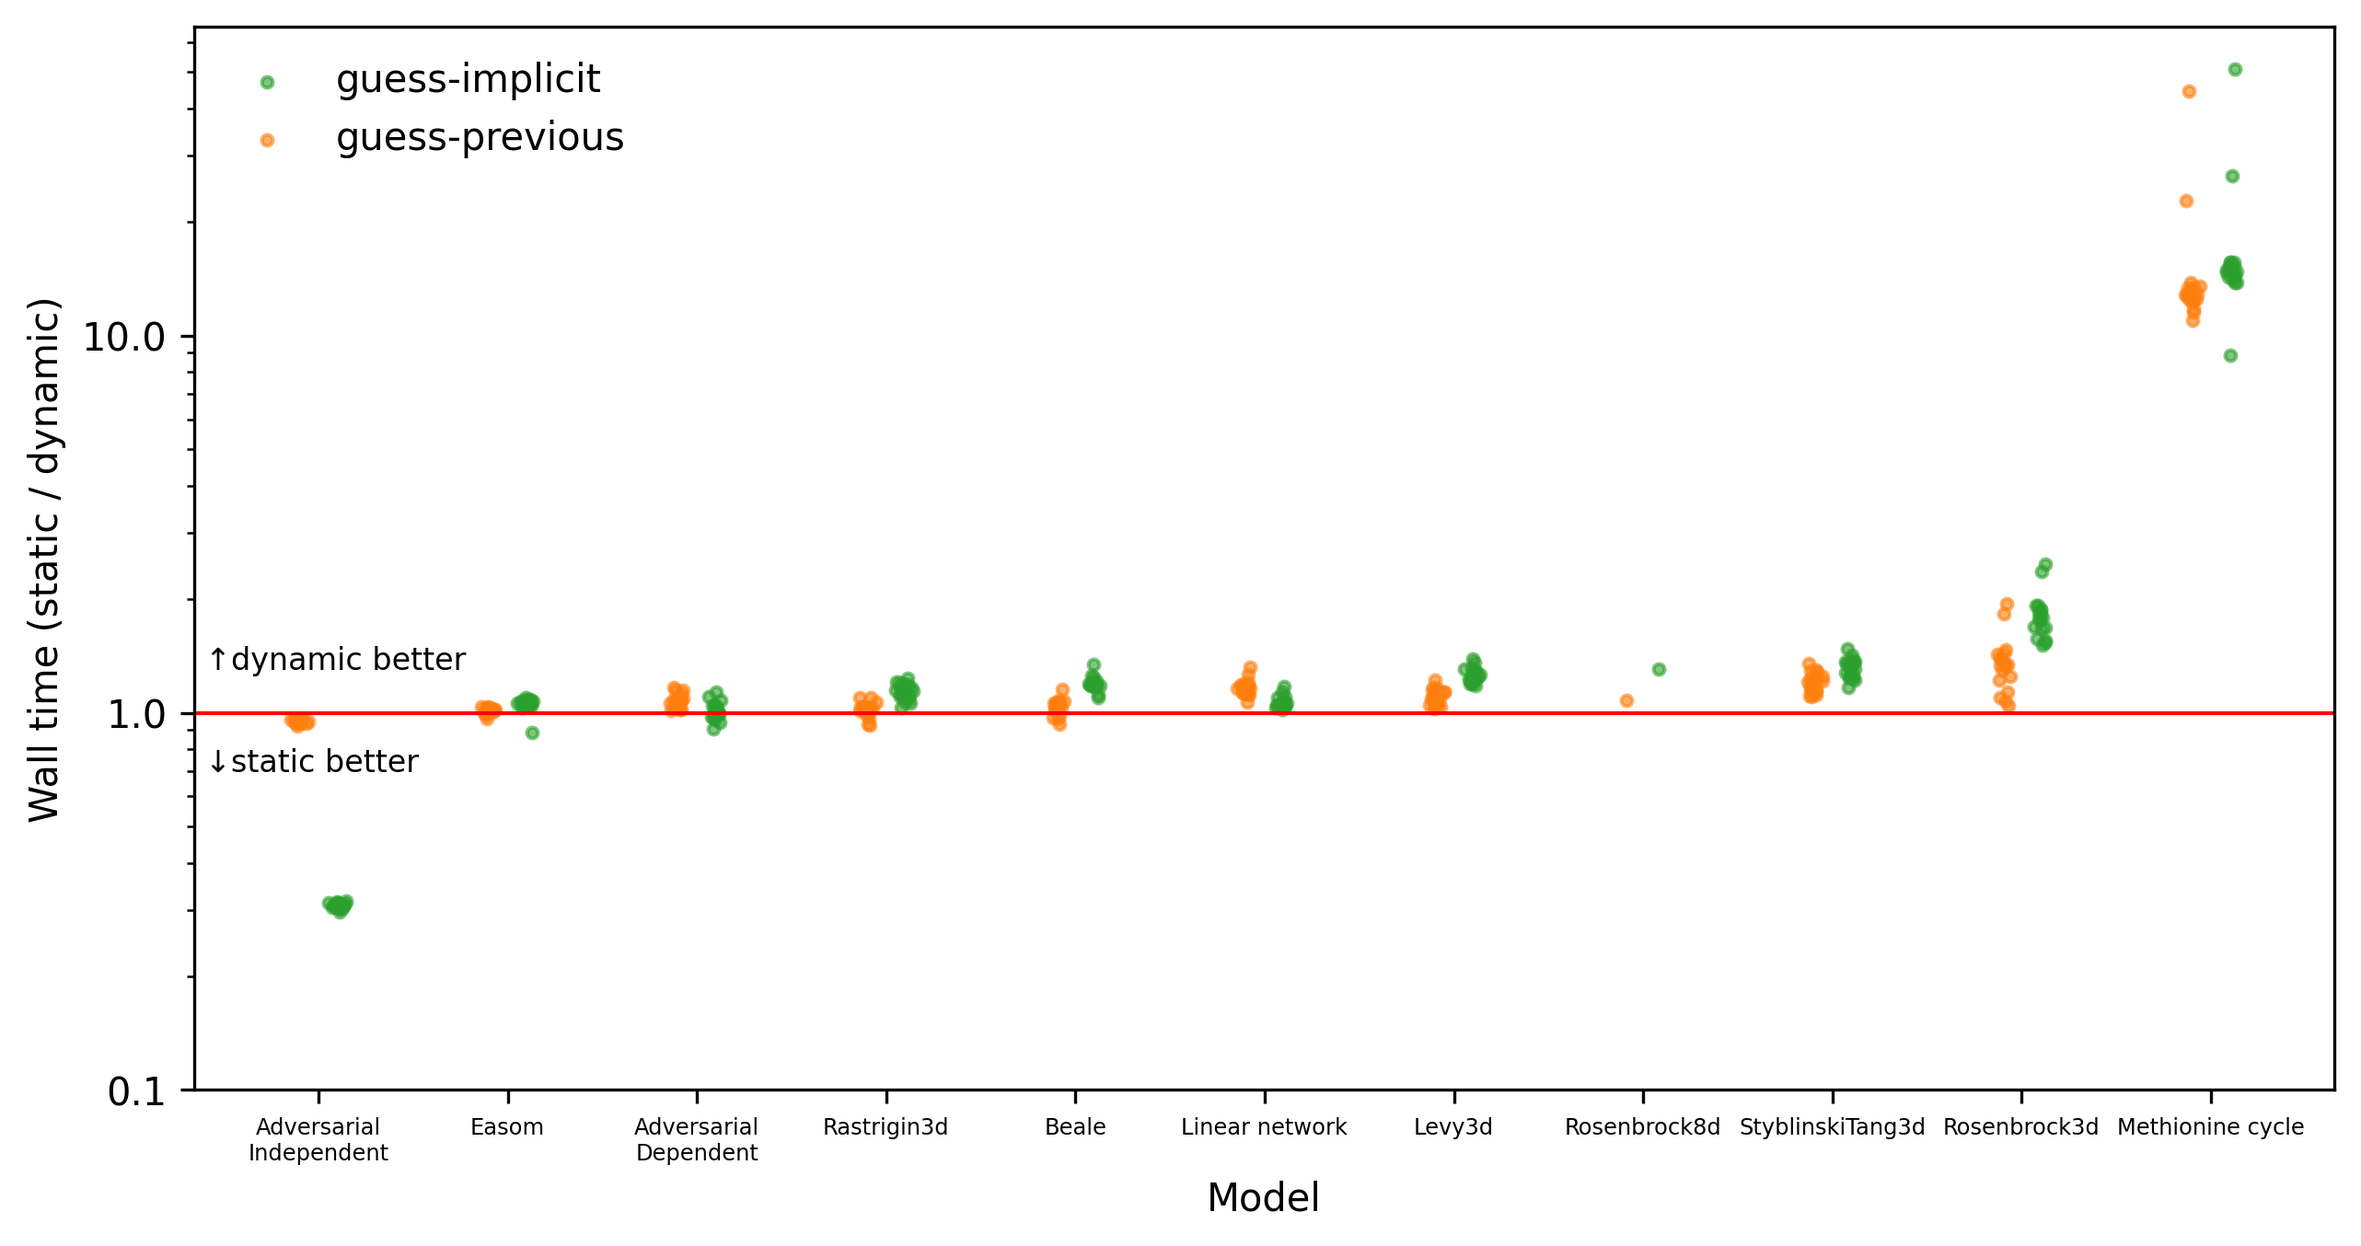
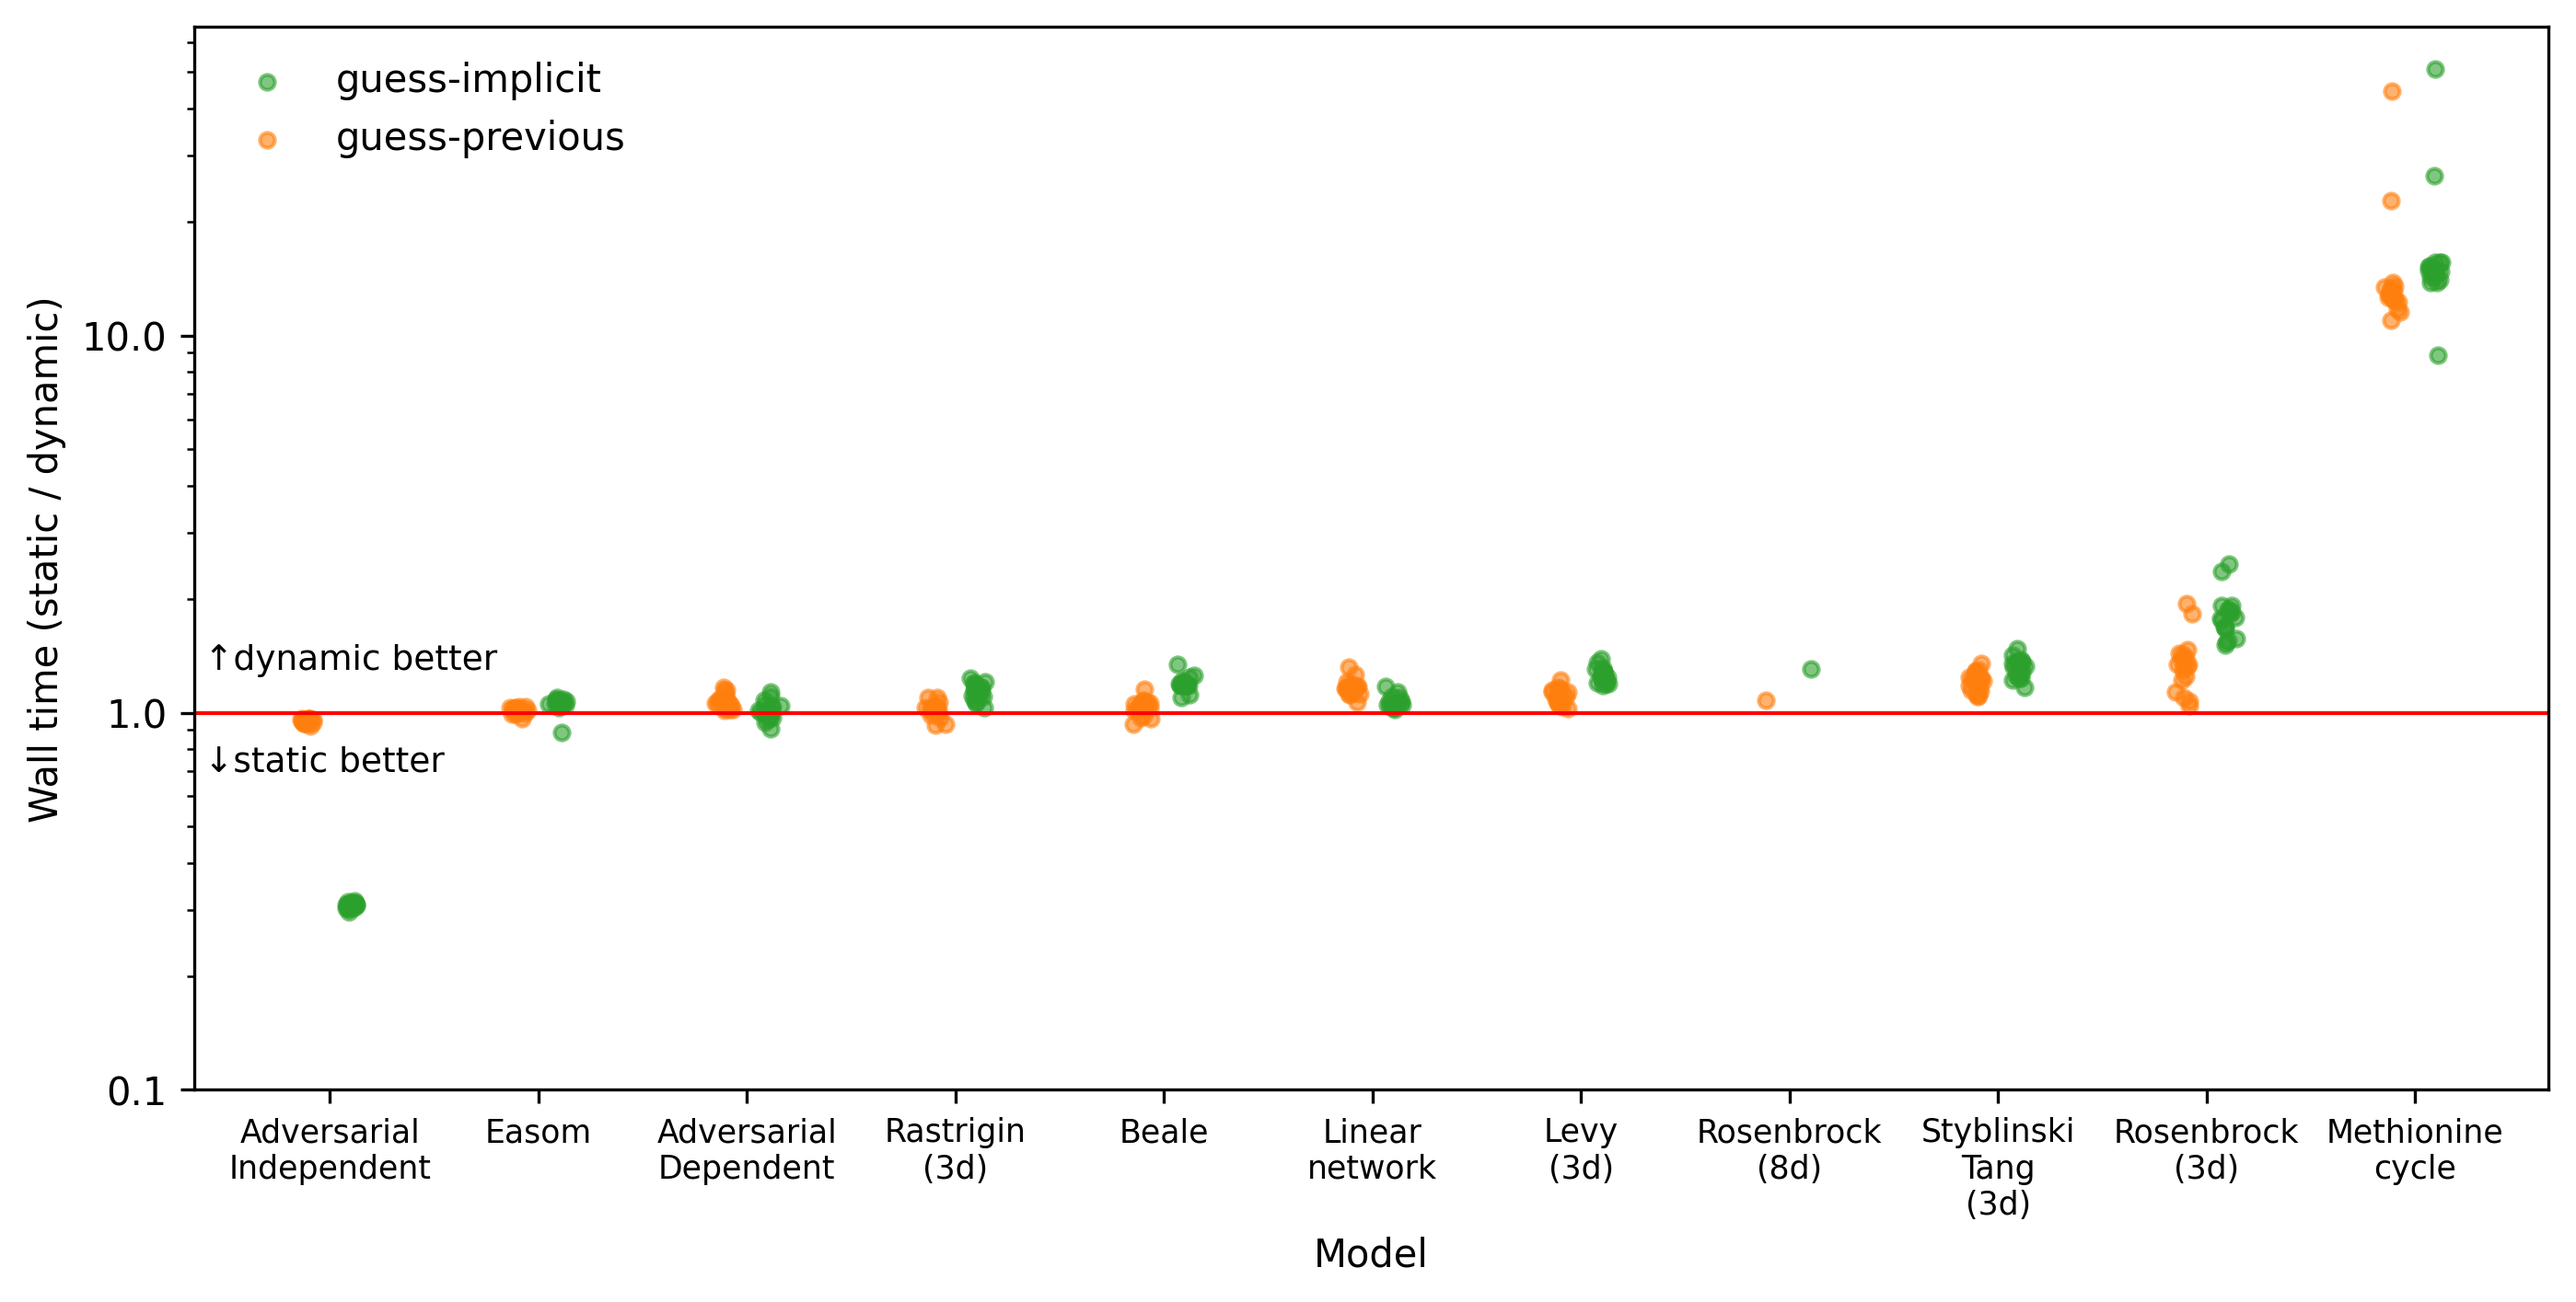
bigger figure elements

diff --git a/benchmarks/analyse_results.py b/benchmarks/analyse_results.py
@@ -5,7 +5,7 @@ import numpy as np
 import polars as pl
 from matplotlib import pyplot as plt
 from matplotlib import ticker
-from matplotlib.animation import FuncAnimation, PillowWriter
+from matplotlib.animation import FuncAnimation
 
 HERE = Path(__file__).parent
 CSV_FILE_METHIONINE = HERE / "methionine.csv"
@@ -51,7 +51,7 @@ def mm_fig(results_df: pl.DataFrame):
 
 
 def performance_fig(results: pl.DataFrame, col):
-    f, ax = plt.subplots(figsize=[10, 5])
+    f, ax = plt.subplots(figsize=[11, 5])
     plot_df = (
         results.with_columns(
             x_jitter=pl.Series(
@@ -79,7 +79,7 @@ def performance_fig(results: pl.DataFrame, col):
             subdf[col],
             label=str(heuristic).replace("_", "-"),
             alpha=0.6,
-            s=8,
+            s=15,
             color=HEURISTIC_COLORS[heuristic],
         )
     ax.axhline(1, color="red", lw=1)
@@ -94,11 +94,17 @@ def performance_fig(results: pl.DataFrame, col):
     )
     ax.set_xticks(
         x["x"],
-        list(x["case"].str.replace("-", "\n")),
-        fontsize="xx-small",
+        list(
+            x["case"]
+            .str.replace("-", "\n")
+            .str.replace(" ", "\n")
+            .str.replace(r"(\dd)", "\n($0)")
+            .str.replace("StyblinskiTang", "Styblinski\nTang")
+        ),
+        fontsize="small",
     )
-    ax.text(-0.06, 1.3, "↑dynamic better", fontsize=8)
-    ax.text(-0.06, 0.7, "↓static better", fontsize=8)
+    ax.text(-0.06, 1.3, "↑dynamic better", fontsize=9)
+    ax.text(-0.06, 0.7, "↓static better", fontsize=9)
     var = "Solver steps" if col == "n_newton_steps" else "Wall time"
     ylabel = f"{var} (static / dynamic)"
     ax.set(ylabel=ylabel, xlabel="Model")
@@ -323,8 +329,8 @@ def main():
     f, _ = illustrative_figure(df_trajectory)
     f.savefig(HERE / "trajectory.png", bbox_inches="tight", dpi=300)
 
-    anim = create_trajectory_animation(df_trajectory)
-    anim.save(HERE / "trajectory.gif", writer=PillowWriter(fps=5))
+    # anim = create_trajectory_animation(df_trajectory)
+    # anim.save(HERE / "trajectory.gif", writer=PillowWriter(fps=5))
 
 
 if __name__ == "__main__":
